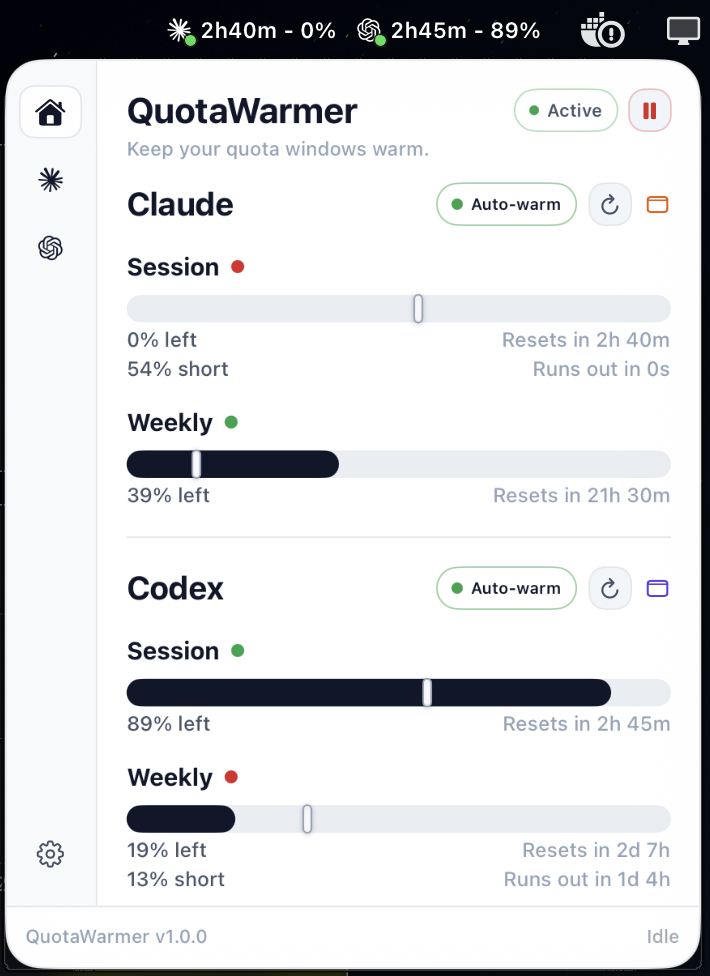
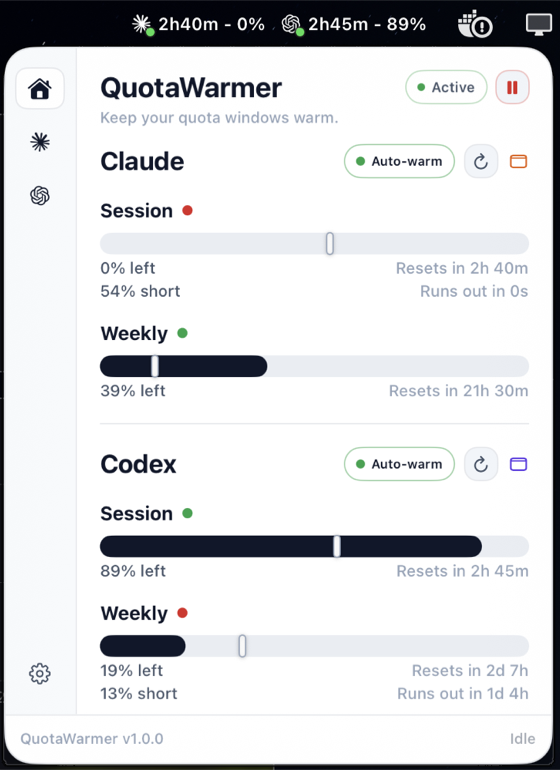
Resize README screenshot

diff --git a/README.md b/README.md
@@ -5,7 +5,7 @@ QuotaWarmer is a compact macOS menu bar app that manages your Claude Code and Co
 By default it only **monitors**: it watches live quota snapshots and shows each provider's window directly in the menu bar. Switch a tool to **Auto-warm** and it will also send a single minimal warm-up command through your own logged-in CLI the instant a fresh 5-hour window opens — then verify the window actually started.
 
 <p align="center">
-  <img src="docs/images/quota-warmer-menu.png" alt="QuotaWarmer menu bar popover" width="710">
+  <img src="docs/images/quota-warmer-menu.png" alt="QuotaWarmer menu bar popover" width="560">
 </p>
 
 ## Highlights